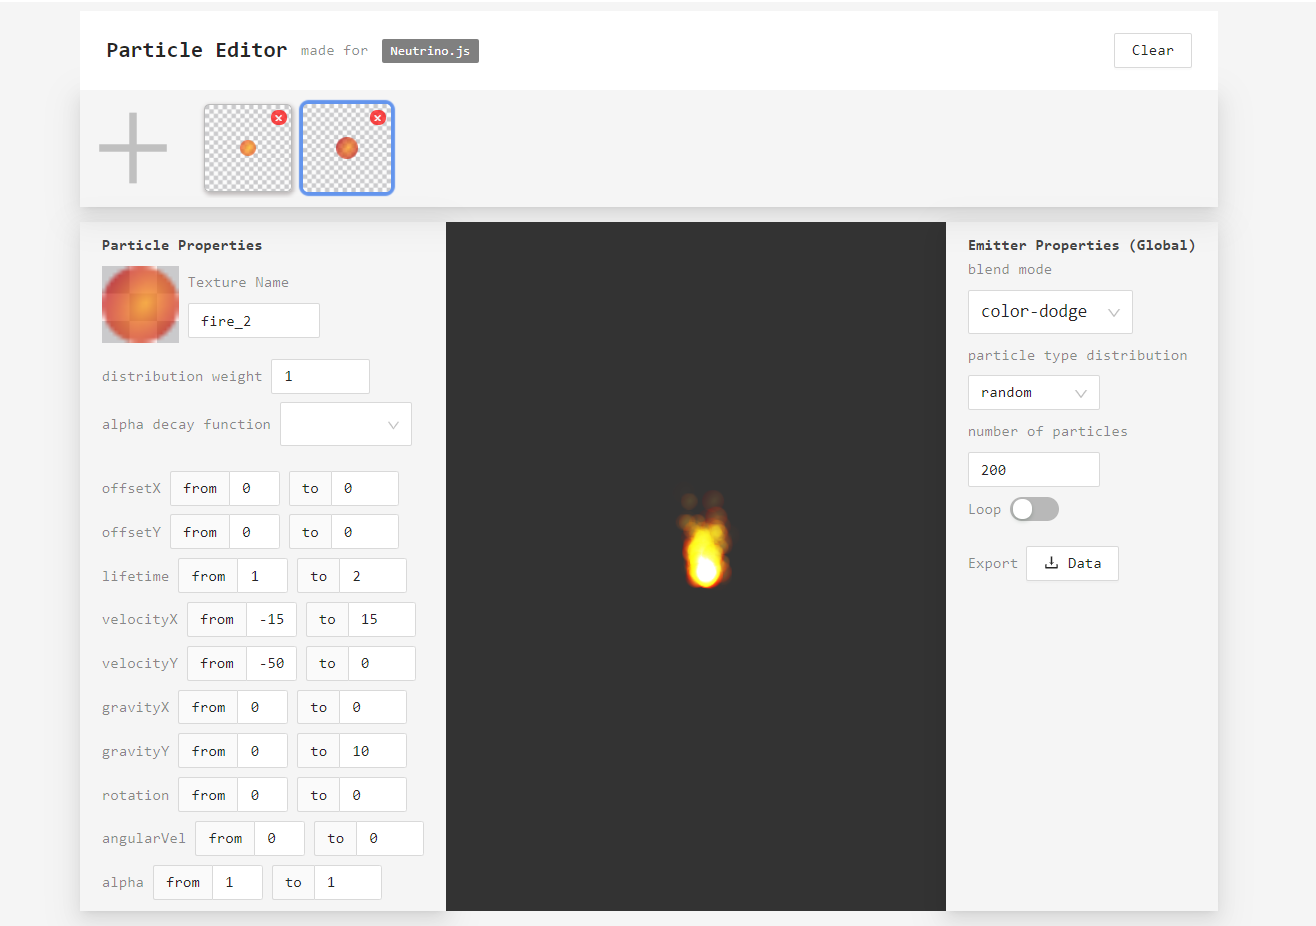
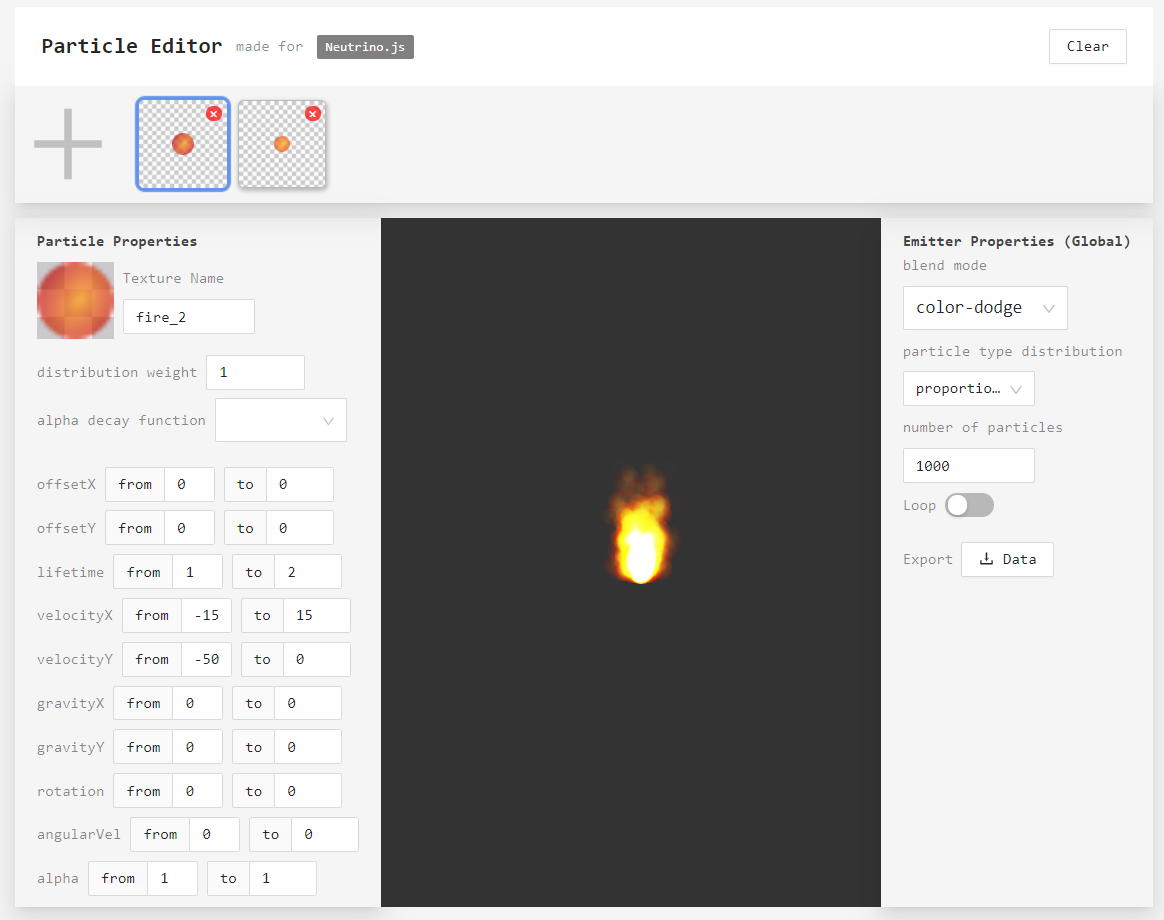
Update screenShot.png

diff --git a/src/components/EmitterPanel/index.js b/src/components/EmitterPanel/index.js
@@ -45,7 +45,7 @@ export default () => {
                             <Text type="secondary">number of particles</Text>
                             <Space>
                                 <InputNumber className={styles.input} value={numOfParticles} onChange={value => {
-                                    updateSettings({ numOfParticles: Number.parseInt(value || 0) })
+                                    updateSettings({ numOfParticles: Number.parseInt(value) || 0 })
                                 }}/>
                             </Space>
                         </Space>

diff --git a/dist/index.html b/dist/index.html
@@ -3,7 +3,7 @@
 <head>
     <meta charset="UTF-8">
     <meta name="viewport" content="width=device-width, initial-scale=1.0">
-    <title>Texture Atlas Generator</title>
+    <title>Particle Editor</title>
     <link rel="stylesheet" href="./antd.css">
     <link rel="stylesheet" href="https://fonts.googleapis.com/css?family=Roboto:300,400,500,700&display=swap" />
     <link rel="stylesheet" href="./app.css">
